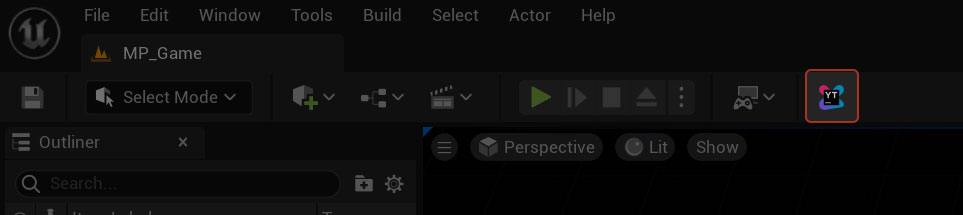
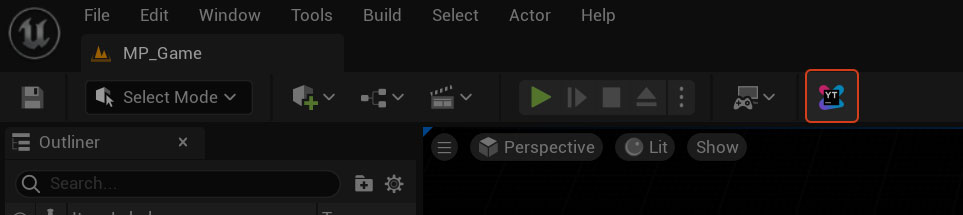
Fixed kb shortcut
Removed "Button" from namings too

diff --git a/Source/BYGYouTrackFillerEditor/Private/BYGYouTrackFillerEditorModule.cpp b/Source/BYGYouTrackFillerEditor/Private/BYGYouTrackFillerEditorModule.cpp
@@ -7,10 +7,11 @@
 #include "ISettingsModule.h"
 #include "ISettingsSection.h"
 #include "ISettingsContainer.h"
-#include "BYGYouTrackFillerButtonStyle.h"
-#include "BYGYouTrackFillerButtonCommands.h"
+#include "BYGYouTrackFillerStyle.h"
+#include "BYGYouTrackFillerCommands.h"
 #include "BYGYouTrackFillerModule.h"
 #include "BYGYouTrackFillerStatics.h"
+#include "LevelEditor.h"
 #include "Misc/MessageDialog.h"
 #include "ToolMenus.h"
 #include "Settings/ProjectPackagingSettings.h"
@@ -34,28 +35,28 @@ void FBYGYouTrackFillerEditorModule::StartupModule()
 
 		if (SettingsSection.IsValid())
 		{
-			SettingsSection->OnModified().BindRaw( this, &FBYGYouTrackFillerEditorModule::HandleSettingsSaved );
+			SettingsSection->OnModified().BindRaw(this, &FBYGYouTrackFillerEditorModule::HandleSettingsSaved);
 		}
 	}
-	
-	FBYGYouTrackFillerButtonStyle::Initialize();
-	FBYGYouTrackFillerButtonStyle::ReloadTextures();
 
-	FBYGYouTrackFillerButtonCommands::Register();
-	
-	const FBYGYouTrackFillerButtonCommands& Commands = FBYGYouTrackFillerButtonCommands::Get();
-	
-	PluginCommands = MakeShareable(new FUICommandList);
+	FBYGYouTrackFillerStyle::Initialize();
+	FBYGYouTrackFillerStyle::ReloadTextures();
 
-	PluginCommands->MapAction( Commands.PluginAction, FExecuteAction::CreateRaw(this, &FBYGYouTrackFillerEditorModule::PluginButtonClicked));
-		//FCanExecuteAction());
+	FBYGYouTrackFillerCommands::Register();
+
+	const FBYGYouTrackFillerCommands& Commands = FBYGYouTrackFillerCommands::Get();
+
+	// Register level editor hooks and commands
+	FLevelEditorModule& LevelEditorModule = FModuleManager::Get().LoadModuleChecked<FLevelEditorModule>("LevelEditor");
+	TSharedRef<FUICommandList> CommandList = LevelEditorModule.GetGlobalLevelEditorActions();
+
+	CommandList->MapAction(Commands.FillAndShowYouTrack,
+	                          FExecuteAction::CreateRaw(this, &FBYGYouTrackFillerEditorModule::HandlePluginButtonExecute),
+	                          FCanExecuteAction::CreateRaw(this, &FBYGYouTrackFillerEditorModule::HandlerPluginButtonCanExecute));
+
+	UToolMenus::RegisterStartupCallback(FSimpleMulticastDelegate::FDelegate::CreateRaw(this, &FBYGYouTrackFillerEditorModule::RegisterMenus));
 
 	const UBYGYouTrackFillerSettings& Settings = *GetDefault<UBYGYouTrackFillerSettings>();
-	if (Settings.bShowEditorButton)
-	{
-		UToolMenus::RegisterStartupCallback(FSimpleMulticastDelegate::FDelegate::CreateRaw(this, &FBYGYouTrackFillerEditorModule::RegisterMenus));
-	}
-
 	if (Settings.bAddYouTrackInfoToIniBlacklist)
 	{
 		UProjectPackagingSettings* PackagingSettings = GetMutableDefault<UProjectPackagingSettings>();
@@ -77,14 +78,14 @@ void FBYGYouTrackFillerEditorModule::ShutdownModule()
 	{
 		SettingsModule->UnregisterSettings(ContainerName, CategoryName, SectionName);
 	}
-	
+
 	UToolMenus::UnRegisterStartupCallback(this);
 
 	UToolMenus::UnregisterOwner(this);
 
-	FBYGYouTrackFillerButtonStyle::Shutdown();
+	FBYGYouTrackFillerStyle::Shutdown();
 
-	FBYGYouTrackFillerButtonCommands::Unregister();
+	FBYGYouTrackFillerCommands::Unregister();
 }
 
 bool FBYGYouTrackFillerEditorModule::HandleSettingsSaved()
@@ -92,19 +93,19 @@ bool FBYGYouTrackFillerEditorModule::HandleSettingsSaved()
 	UBYGYouTrackFillerSettings* Settings = GetMutableDefault<UBYGYouTrackFillerSettings>();
 	bool bResaveSettings = false;
 
-	FBYGYouTrackFillerButtonCommands::Register();
-	FBYGYouTrackFillerButtonCommands::Unregister();
+	FBYGYouTrackFillerCommands::Register();
+	FBYGYouTrackFillerCommands::Unregister();
 
 	FBYGYouTrackFillerModule::Get().RefreshCheats();
 
 	// Do not allow empty cheat string if enabled
-	if (Settings->bEnableCheatConsoleCommand && Settings->CheatCommand.IsEmpty())
+	if (ensure(Settings) && Settings->bEnableCheatConsoleCommand && Settings->CheatCommand.IsEmpty())
 	{
 		Settings->CheatCommand = "youtrack";
 		bResaveSettings = true;
 	}
 
-	if ( bResaveSettings )
+	if (bResaveSettings)
 	{
 		Settings->SaveConfig();
 	}
@@ -112,10 +113,15 @@ bool FBYGYouTrackFillerEditorModule::HandleSettingsSaved()
 	return true;
 }
 
-void FBYGYouTrackFillerEditorModule::PluginButtonClicked()
+void FBYGYouTrackFillerEditorModule::HandlePluginButtonExecute()
 {
 	FBYGYouTrackTicketData Data;
 	UBYGYouTrackFillerStatics::FillAndShowTicket(Data);
+}
+
+bool FBYGYouTrackFillerEditorModule::HandlerPluginButtonCanExecute()
+{
+	return true;
 }
 
 void FBYGYouTrackFillerEditorModule::RegisterMenus()
@@ -123,21 +129,26 @@ void FBYGYouTrackFillerEditorModule::RegisterMenus()
 	// Owner will be used for cleanup in call to UToolMenus::UnregisterOwner
 	FToolMenuOwnerScoped OwnerScoped(this);
 
+	FLevelEditorModule& LevelEditorModule = FModuleManager::Get().LoadModuleChecked<FLevelEditorModule>("LevelEditor");
+	TSharedRef<FUICommandList> CommandList = LevelEditorModule.GetGlobalLevelEditorActions();
+	
 	{
 		UToolMenu* Menu = UToolMenus::Get()->ExtendMenu("LevelEditor.MainMenu.Window");
 		{
 			FToolMenuSection& Section = Menu->FindOrAddSection("WindowLayout");
-			Section.AddMenuEntryWithCommandList(FBYGYouTrackFillerButtonCommands::Get().PluginAction, PluginCommands);
+			Section.AddMenuEntryWithCommandList(FBYGYouTrackFillerCommands::Get().FillAndShowYouTrack, CommandList);
 		}
 	}
 
+	const UBYGYouTrackFillerSettings& Settings = *GetDefault<UBYGYouTrackFillerSettings>();
+	if (Settings.bShowEditorButton)
 	{
 		UToolMenu* ToolbarMenu = UToolMenus::Get()->ExtendMenu("LevelEditor.LevelEditorToolBar.PlayToolBar");
 		{
 			FToolMenuSection& Section = ToolbarMenu->FindOrAddSection("PluginTools");
 			{
-				FToolMenuEntry& Entry = Section.AddEntry(FToolMenuEntry::InitToolBarButton(FBYGYouTrackFillerButtonCommands::Get().PluginAction));
-				Entry.SetCommandList(PluginCommands);
+				FToolMenuEntry& Entry = Section.AddEntry(FToolMenuEntry::InitToolBarButton(FBYGYouTrackFillerCommands::Get().FillAndShowYouTrack));
+				Entry.SetCommandList(CommandList);
 			}
 		}
 	}

diff --git a/Source/BYGYouTrackFillerEditor/Private/BYGYouTrackFillerStyle.cpp b/Source/BYGYouTrackFillerEditor/Private/BYGYouTrackFillerStyle.cpp
@@ -1,6 +1,6 @@
 // Copyright Epic Games, Inc. All Rights Reserved.
 
-#include "BYGYouTrackFillerButtonStyle.h"
+#include "BYGYouTrackFillerStyle.h"
 #include "Framework/Application/SlateApplication.h"
 #include "Styling/SlateStyleRegistry.h"
 #include "Slate/SlateGameResources.h"
@@ -9,9 +9,9 @@
 
 #define RootToContentDir Style->RootToContentDir
 
-TSharedPtr<FSlateStyleSet> FBYGYouTrackFillerButtonStyle::StyleInstance = nullptr;
+TSharedPtr<FSlateStyleSet> FBYGYouTrackFillerStyle::StyleInstance = nullptr;
 
-void FBYGYouTrackFillerButtonStyle::Initialize()
+void FBYGYouTrackFillerStyle::Initialize()
 {
 	if (!StyleInstance.IsValid())
 	{
@@ -20,16 +20,16 @@ void FBYGYouTrackFillerButtonStyle::Initialize()
 	}
 }
 
-void FBYGYouTrackFillerButtonStyle::Shutdown()
+void FBYGYouTrackFillerStyle::Shutdown()
 {
 	FSlateStyleRegistry::UnRegisterSlateStyle(*StyleInstance);
 	ensure(StyleInstance.IsUnique());
 	StyleInstance.Reset();
 }
 
-FName FBYGYouTrackFillerButtonStyle::GetStyleSetName()
+FName FBYGYouTrackFillerStyle::GetStyleSetName()
 {
-	static FName StyleSetName(TEXT("BYGYouTrackFillerButtonStyle"));
+	static FName StyleSetName(TEXT("BYGYouTrackFillerStyle"));
 	return StyleSetName;
 }
 
@@ -37,16 +37,16 @@ FName FBYGYouTrackFillerButtonStyle::GetStyleSetName()
 const FVector2D Icon16x16(16.0f, 16.0f);
 const FVector2D Icon20x20(20.0f, 20.0f);
 
-TSharedRef< FSlateStyleSet > FBYGYouTrackFillerButtonStyle::Create()
+TSharedRef< FSlateStyleSet > FBYGYouTrackFillerStyle::Create()
 {
-	TSharedRef< FSlateStyleSet > Style = MakeShareable(new FSlateStyleSet("BYGYouTrackFillerButtonStyle"));
+	TSharedRef< FSlateStyleSet > Style = MakeShareable(new FSlateStyleSet("BYGYouTrackFillerStyle"));
 	Style->SetContentRoot(IPluginManager::Get().FindPlugin("BYGYouTrackFiller")->GetBaseDir() / TEXT("Resources"));
 
-	Style->Set("BYGYouTrackFillerButton.PluginAction", new IMAGE_BRUSH_SVG(TEXT("YouTrackFillerButtonIcon"), Icon20x20));
+	Style->Set("BYGYouTrackFiller.FillAndShowYouTrack", new IMAGE_BRUSH_SVG(TEXT("YouTrackFillerButtonIcon"), Icon20x20));
 	return Style;
 }
 
-void FBYGYouTrackFillerButtonStyle::ReloadTextures()
+void FBYGYouTrackFillerStyle::ReloadTextures()
 {
 	if (FSlateApplication::IsInitialized())
 	{
@@ -54,7 +54,7 @@ void FBYGYouTrackFillerButtonStyle::ReloadTextures()
 	}
 }
 
-const ISlateStyle& FBYGYouTrackFillerButtonStyle::Get()
+const ISlateStyle& FBYGYouTrackFillerStyle::Get()
 {
 	return *StyleInstance;
 }

diff --git a/Source/BYGYouTrackFillerEditor/Private/BYGYouTrackFillerCommands.cpp b/Source/BYGYouTrackFillerEditor/Private/BYGYouTrackFillerCommands.cpp
@@ -1,12 +1,12 @@
 // Copyright Epic Games, Inc. All Rights Reserved.
 
-#include "BYGYouTrackFillerButtonCommands.h"
+#include "BYGYouTrackFillerCommands.h"
 
 #include "BYGYouTrackFillerSettings.h"
 
 #define LOCTEXT_NAMESPACE "FExampleButtonModule"
 
-void FBYGYouTrackFillerButtonCommands::RegisterCommands()
+void FBYGYouTrackFillerCommands::RegisterCommands()
 {
 	const UBYGYouTrackFillerSettings* Settings = GetDefault<UBYGYouTrackFillerSettings>();
 	FInputChord InputChord;
@@ -14,7 +14,7 @@ void FBYGYouTrackFillerButtonCommands::RegisterCommands()
 	{
 		InputChord = Settings->EditorKeyboardShortcut;
 	}
-	UI_COMMAND(PluginAction, "Open YouTrack", "Open YouTrack with prefilled values.", EUserInterfaceActionType::Button, InputChord);
+	UI_COMMAND(FillAndShowYouTrack, "Open YouTrack", "Open YouTrack with prefilled values.", EUserInterfaceActionType::Button, InputChord);
 }
 
 #undef LOCTEXT_NAMESPACE

diff --git a/Source/BYGYouTrackFillerEditor/Public/BYGYouTrackFillerCommands.h b/Source/BYGYouTrackFillerEditor/Public/BYGYouTrackFillerCommands.h
@@ -1,0 +1,22 @@
+// Copyright Epic Games, Inc. All Rights Reserved.
+
+#pragma once
+
+#include "CoreMinimal.h"
+#include "Framework/Commands/Commands.h"
+#include "BYGYouTrackFillerStyle.h"
+
+class FBYGYouTrackFillerCommands : public TCommands<FBYGYouTrackFillerCommands>
+{
+public:
+	FBYGYouTrackFillerCommands()
+		: TCommands<FBYGYouTrackFillerCommands>(TEXT("BYGYouTrackFiller"), NSLOCTEXT("Contexts", "BYGYouTrackFiller", "BYGYouTrackFiller Plugin"), NAME_None, FBYGYouTrackFillerStyle::GetStyleSetName())
+	{
+	}
+
+	// TCommands<> interface
+	virtual void RegisterCommands() override;
+
+public:
+	TSharedPtr<FUICommandInfo> FillAndShowYouTrack;
+};

diff --git a/Source/BYGYouTrackFiller/Public/BYGYouTrackFillerSettings.h b/Source/BYGYouTrackFiller/Public/BYGYouTrackFillerSettings.h
@@ -85,7 +85,7 @@ public:
 	bool bShowEditorButton = true;
 
 	// Global keyboard shortcut to activate the YouTrack button.
-	UPROPERTY(config, EditAnywhere, Category="Activation")
+	UPROPERTY(config, EditAnywhere, Category="Activation", meta=(ConfigRestartRequired=true))
 	FInputChord EditorKeyboardShortcut;
 
 	// Unless overridden, these values will be added as defaults to all tickets

diff --git a/Source/BYGYouTrackFillerEditor/Public/BYGYouTrackFillerEditorModule.h b/Source/BYGYouTrackFillerEditor/Public/BYGYouTrackFillerEditorModule.h
@@ -14,14 +14,11 @@ public:
 	virtual void ShutdownModule() override;
 	
 	/** This function will be bound to Command. */
-	void PluginButtonClicked();
+	void HandlePluginButtonExecute();
+	bool HandlerPluginButtonCanExecute();
 	
-private:
+protected:
 	bool HandleSettingsSaved();
 
 	void RegisterMenus();
-
-
-private:
-	TSharedPtr<class FUICommandList> PluginCommands;
 };

diff --git a/Source/BYGYouTrackFillerEditor/Public/BYGYouTrackFillerStyle.h b/Source/BYGYouTrackFillerEditor/Public/BYGYouTrackFillerStyle.h
@@ -5,7 +5,7 @@
 #include "CoreMinimal.h"
 #include "Styling/SlateStyle.h"
 
-class FBYGYouTrackFillerButtonStyle
+class FBYGYouTrackFillerStyle
 {
 public:
 

diff --git a/README.md b/README.md
@@ -81,8 +81,3 @@ Perforce Checklist: 82582
 
 Customizing other behavior is supported by subclassing `UBYGYouTrackFiller` and changing the Plugin settings to use
 this new class as the default.
-
-
-## Future Goals
-
-* Fix keyboard shortcut not working for in-editor button.
